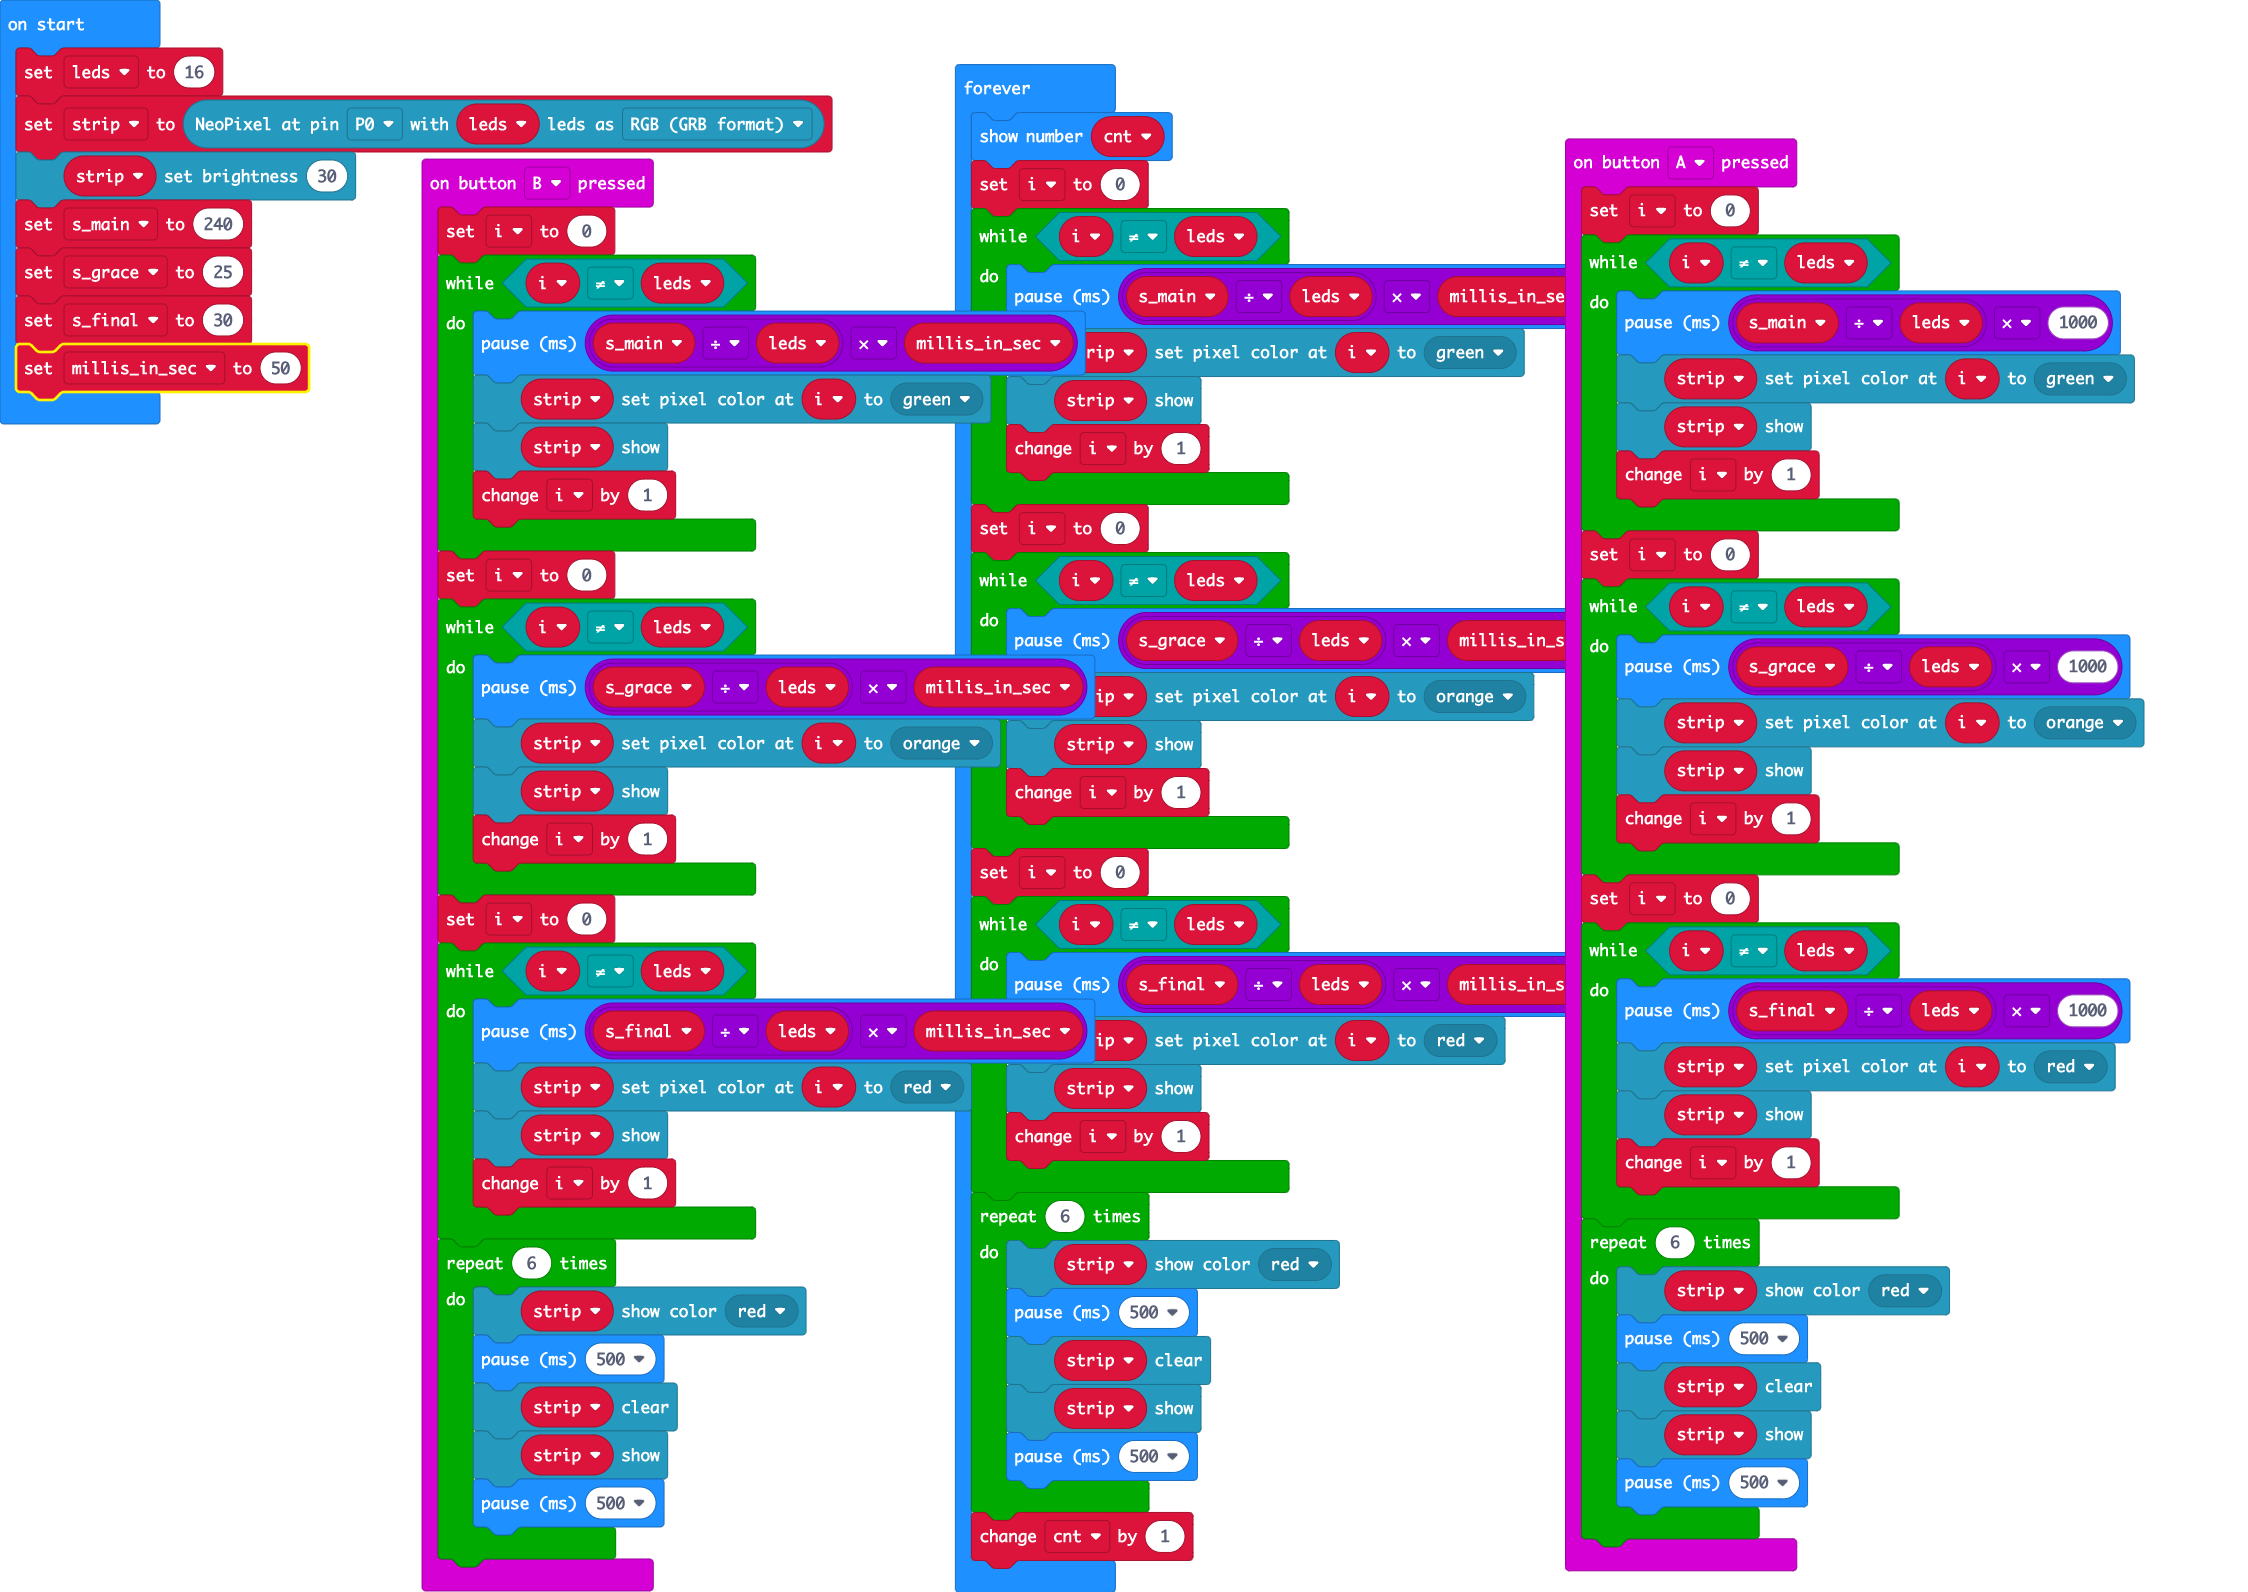
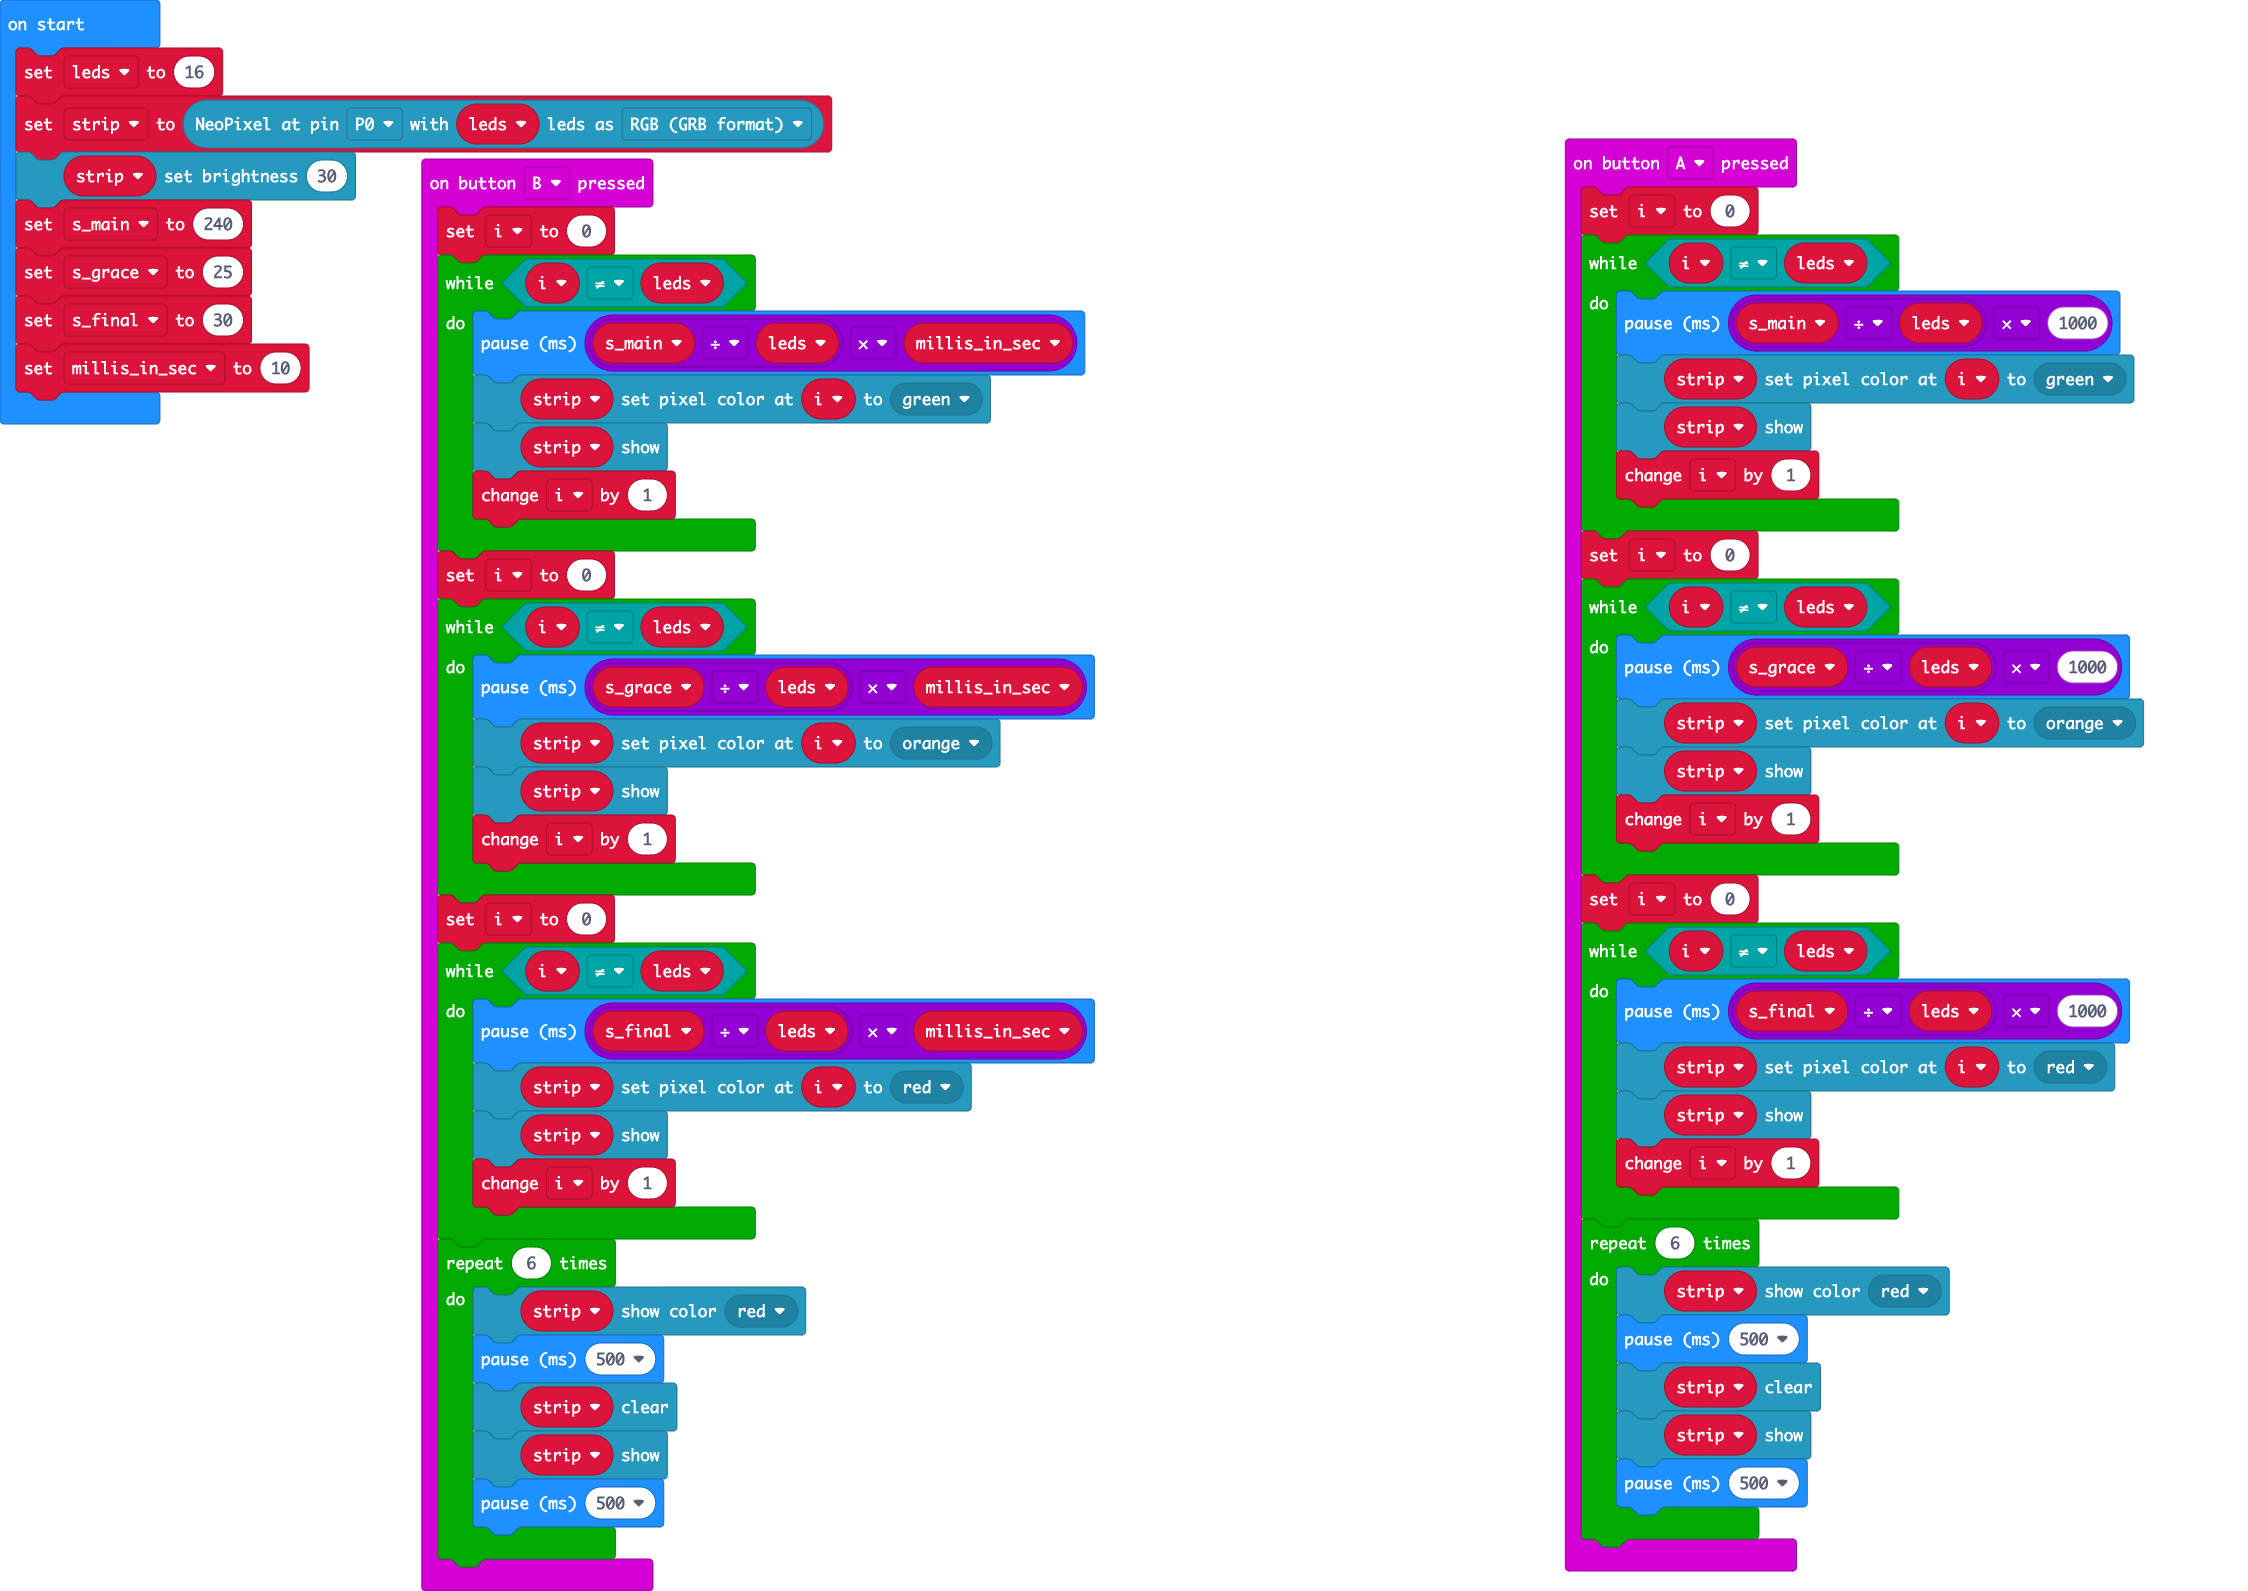
removed forever

diff --git a/main.ts b/main.ts
@@ -58,7 +58,6 @@ input.onButtonPressed(Button.B, function () {
         basic.pause(500)
     }
 })
-let cnt = 0
 let i = 0
 let millis_in_sec = 0
 let s_final = 0
@@ -72,36 +71,4 @@ strip.setBrightness(30)
 s_main = 240
 s_grace = 25
 s_final = 30
-millis_in_sec = 50
-basic.forever(function () {
-    basic.showNumber(cnt)
-    i = 0
-    while (i != leds) {
-        basic.pause(s_main / leds * millis_in_sec)
-        strip.setPixelColor(i, neopixel.colors(NeoPixelColors.Green))
-        strip.show()
-        i += 1
-    }
-    i = 0
-    while (i != leds) {
-        basic.pause(s_grace / leds * millis_in_sec)
-        strip.setPixelColor(i, neopixel.colors(NeoPixelColors.Orange))
-        strip.show()
-        i += 1
-    }
-    i = 0
-    while (i != leds) {
-        basic.pause(s_final / leds * millis_in_sec)
-        strip.setPixelColor(i, neopixel.colors(NeoPixelColors.Red))
-        strip.show()
-        i += 1
-    }
-    for (let index = 0; index < 6; index++) {
-        strip.showColor(neopixel.colors(NeoPixelColors.Red))
-        basic.pause(500)
-        strip.clear()
-        strip.show()
-        basic.pause(500)
-    }
-    cnt += 1
-})
+millis_in_sec = 10
